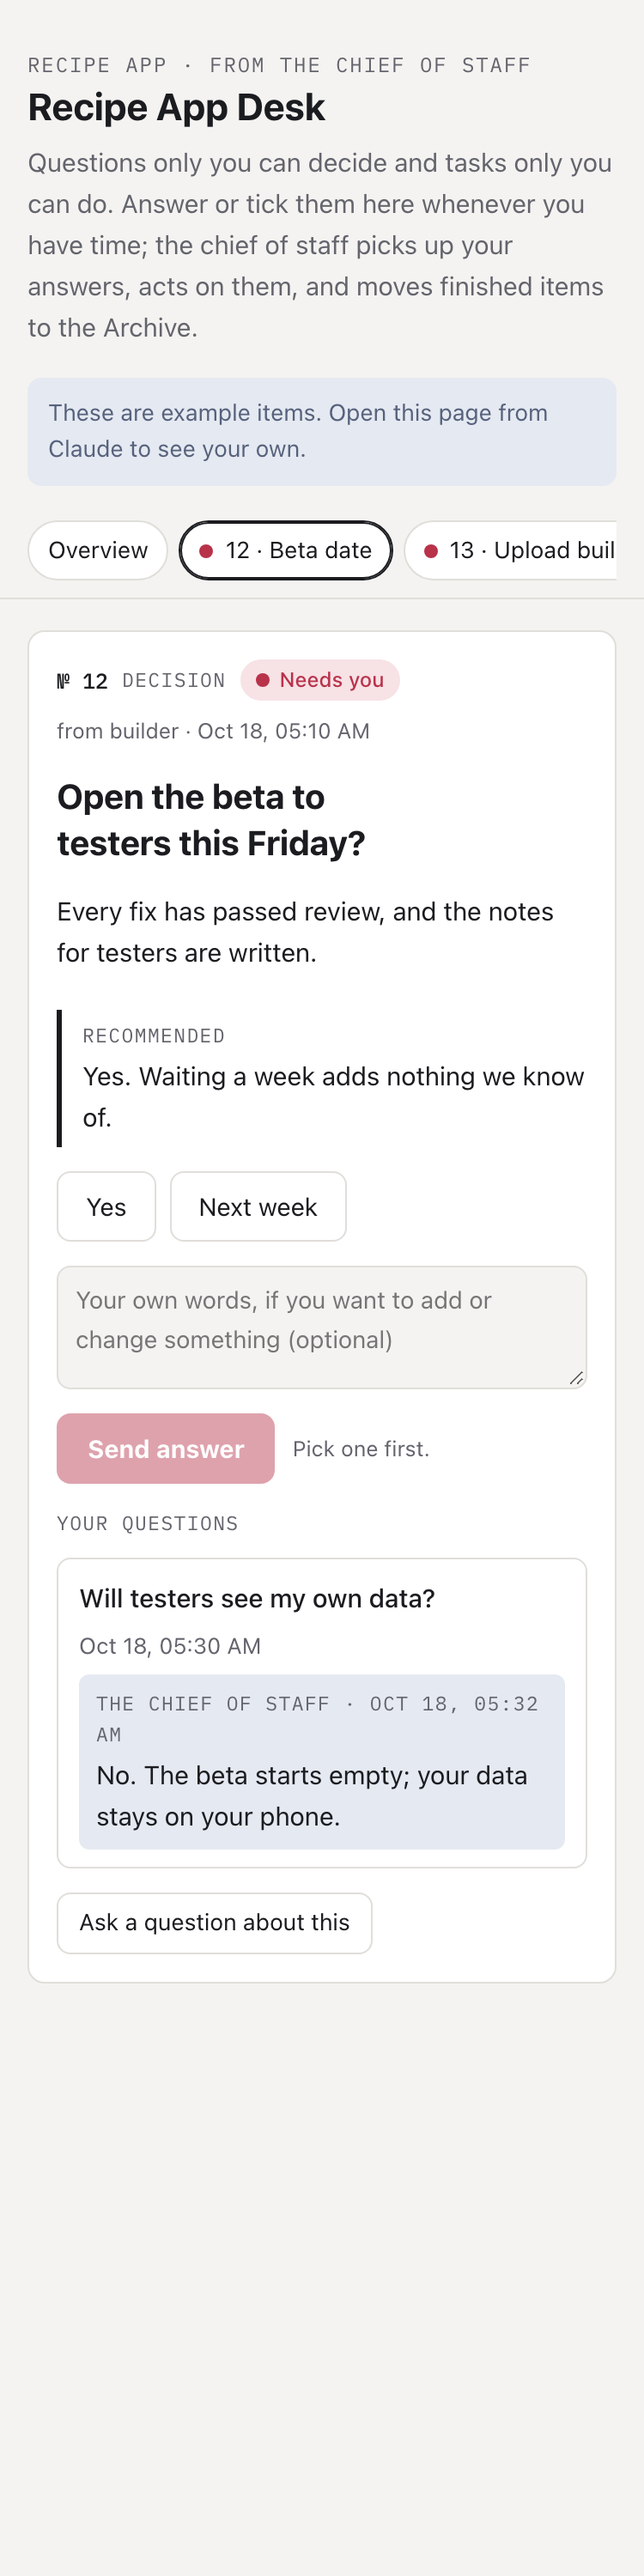
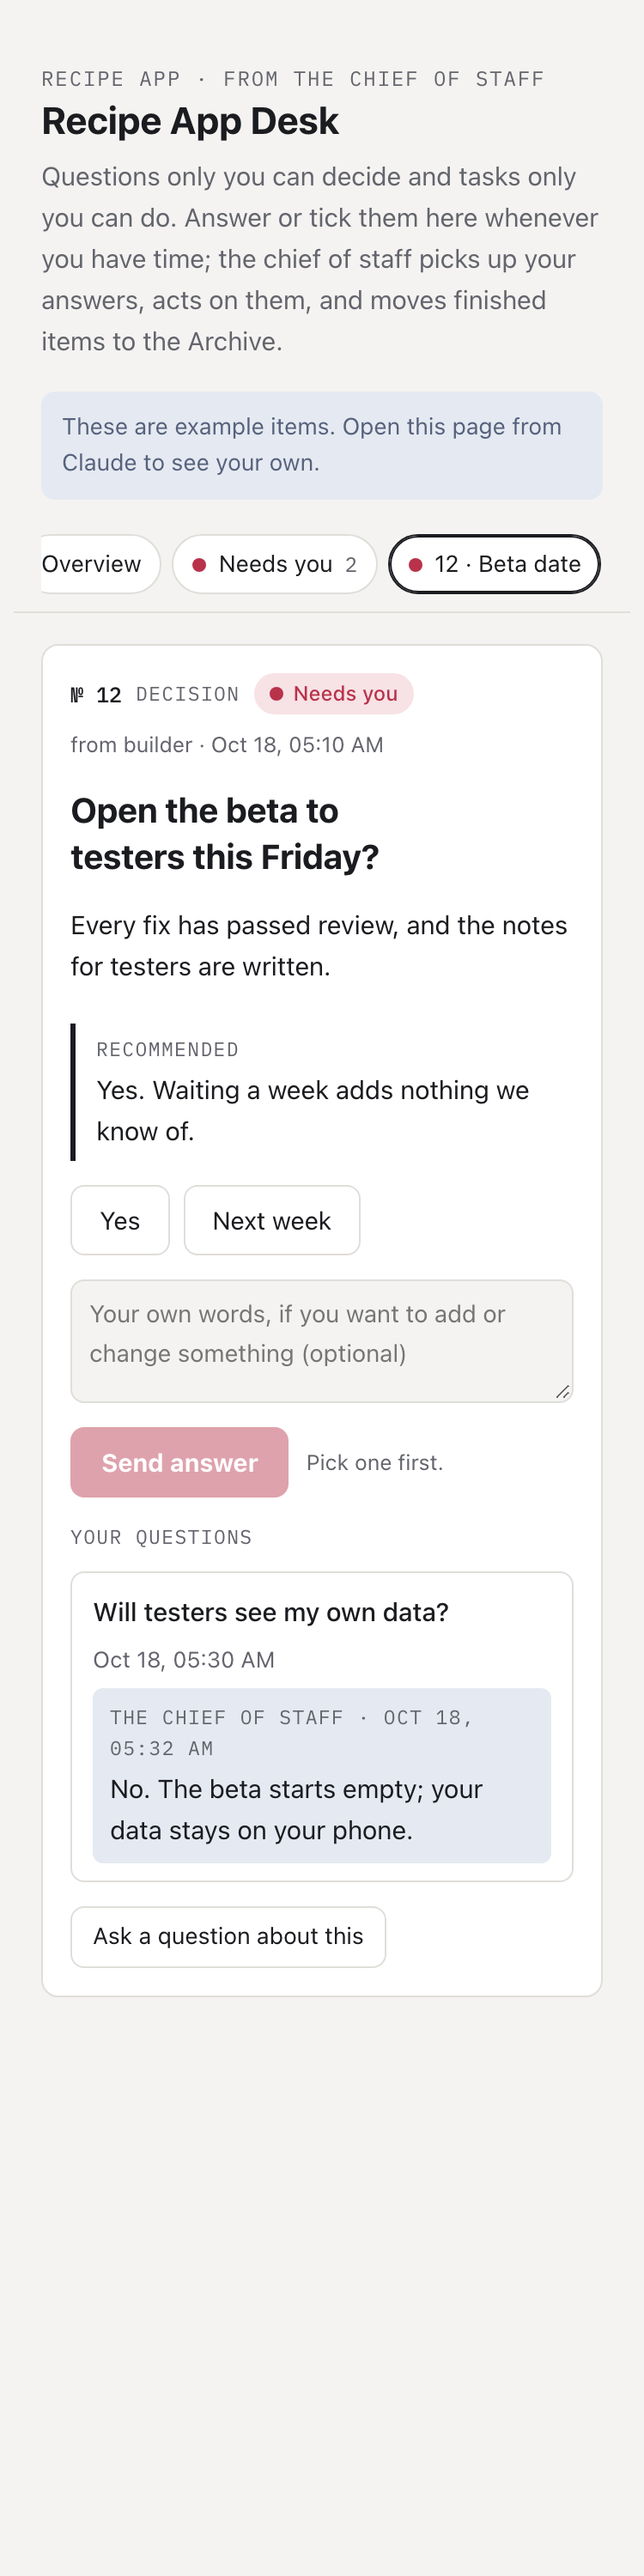
owner-desk: add Needs you and Decided tabs, and swipe between tabs
The rail now has group tabs with counts: Needs you (every open item, one
after another), Decided, Later and Archive. Items that need you keep their
own tabs; answered ones live on Decided. The overview tiles open their tab.

Swipe left or right anywhere on the page to move to the next or previous
tab, in the rail's order. Swipes that start at the screen edge, on the tab
rail, in a text box or code block, while zoomed in, or with text selected
are left alone.

Changed region(s): [[0.0307, 0.0, 0.9507, 0.775], [0.552, 0.558, 0.6747, 0.589], [0.7667, 0.0, 0.7973, 0.031]]

diff --git a/skills/owner-desk/assets/desk.html b/skills/owner-desk/assets/desk.html
@@ -4,7 +4,7 @@
 <link rel="preconnect" href="https://fonts.gstatic.com" crossorigin>
 <link rel="stylesheet" href="https://fonts.googleapis.com/css2?family=IBM+Plex+Mono:wght@400;500&display=swap">
 <style>
-/* Layout: a desk. A sticky rail of tabs (one per open item) above one open slip at a time. */
+/* Layout: a desk. A sticky rail of tabs (the groups, plus one per item that needs you) above one open slip at a time. Swipe sideways to change tabs. */
 :root{
   --bg:#F4F3F1; --surface:#FFFFFF; --ink:#1B1C20; --muted:#63646C; --line:#E0DED9;
   --accent:#B8324A; --accent-soft:#F7E2E6; --on-accent:#FFFFFF;
@@ -48,7 +48,6 @@ h1{font-size:26px;line-height:1.2;margin:0;font-weight:700;text-wrap:balance}
 .tab[aria-selected="true"]{border-color:var(--ink);box-shadow:inset 0 0 0 1px var(--ink)}
 .tab:focus-visible,button:focus-visible,textarea:focus-visible,input:focus-visible,a:focus-visible{outline:2px solid var(--accent);outline-offset:2px}
 .tab-sep{flex:0 0 1px;align-self:stretch;background:var(--line);margin:3px 4px}
-.rail-label{flex:0 0 auto;align-self:center;font-family:var(--font-mono);font-size:11px;letter-spacing:.06em;text-transform:uppercase;color:var(--muted);padding-right:2px}
 .dot{width:8px;height:8px;border-radius:50%;flex:0 0 8px;background:var(--muted)}
 .dot.needs{background:var(--accent)} .dot.wait{background:var(--wait)} .dot.ok{background:var(--ok)} .dot.later{background:var(--later)}
 .count{font-family:var(--font-mono);font-size:12px;color:var(--muted)}
@@ -105,12 +104,14 @@ ol.steps li.done label{color:var(--muted);text-decoration:line-through;text-deco
 .ov-row .t{min-width:0;overflow:hidden;text-overflow:ellipsis;white-space:nowrap}
 .qchip{font-size:11.5px;font-weight:500;padding:1px 8px;border-radius:999px;background:var(--wait-soft);color:var(--wait);white-space:nowrap}
 .tiles{display:grid;grid-template-columns:repeat(4,minmax(0,1fr));gap:8px}
-.tile{background:var(--surface);border:1px solid var(--line);border-radius:var(--r);padding:10px 12px}
+.tile{background:var(--surface);border:1px solid var(--line);border-radius:var(--r);padding:10px 12px;font:inherit;color:inherit;text-align:left;cursor:pointer;min-width:0}
 .tile .n{font-family:var(--font-mono);font-size:22px;font-weight:500;font-variant-numeric:tabular-nums}
 .tile .l{font-size:12.5px;color:var(--muted)}
 .tile.needs .n{color:var(--accent)} .tile.wait .n{color:var(--wait)}
 .calm{background:var(--ok-soft);color:var(--ok);border-radius:var(--r);padding:16px 18px;font-weight:700}
 .reach{font-size:12.5px;color:var(--muted)}
+.swipe-tip{display:none;margin-top:-8px}
+@media (hover: none) and (pointer: coarse){ .swipe-tip{display:block} }
 .divider{display:flex;align-items:center;gap:10px;color:var(--muted);font-size:12.5px;margin-top:6px}
 .divider::before,.divider::after{content:"";flex:1;height:1px;background:var(--line)}
 .divider span{flex:0 1 auto;text-align:center}
@@ -122,7 +123,10 @@ details.arch[open] summary{margin-bottom:10px}
 .note{font-size:13px;color:var(--muted)}
 .toast{position:fixed;left:50%;transform:translateX(-50%);bottom:calc(16px + env(safe-area-inset-bottom,0px));background:var(--ink);color:var(--surface);padding:9px 16px;border-radius:999px;font-size:13.5px;z-index:20;max-width:calc(100% - 32px)}
 @media (max-width:520px){ .tiles{grid-template-columns:repeat(2,minmax(0,1fr))} .slip{padding:16px} h1{font-size:22px} }
-@media (prefers-reduced-motion: no-preference){ .slip{animation:rise .18s ease-out} @keyframes rise{from{transform:translateY(4px)}to{transform:none}} }
+@media (prefers-reduced-motion: no-preference){ .slip{animation:rise .18s ease-out} @keyframes rise{from{transform:translateY(4px)}to{transform:none}}
+  main.from-right{animation:from-right .2s ease-out} main.from-left{animation:from-left .2s ease-out}
+  @keyframes from-right{from{transform:translateX(28px);opacity:.3}to{transform:none;opacity:1}}
+  @keyframes from-left{from{transform:translateX(-28px);opacity:.3}to{transform:none;opacity:1}} }
 </style>
 
 <div class="wrap">
@@ -207,27 +211,29 @@ details.arch[open] summary{margin-bottom:10px}
       const ra = a.status === "answered" ? 1 : 0, rb = b.status === "answered" ? 1 : 0;
       return ra - rb || (a.priority || 5) - (b.priority || 5) || byTime(a, b);
     });
+    const needs = active.filter(it => it.status !== "answered");
+    const decided = active.filter(it => it.status === "answered");
     const later = S.items.filter(isLater).sort(byTime);
     const archived = S.items.filter(isArchived).sort((a, b) => String(b.archived || "").localeCompare(String(a.archived || "")));
-    return { active, later, archived };
+    return { active, needs, decided, later, archived };
   }
+  const GROUP_TABS = ["overview", "needs", "decided", "later", "archive"];
+  // The group tab an item lives under, for an item that has no tab of its own.
+  const groupOf = (it) => isArchived(it) ? "archive" : it.later ? "later" : it.status === "answered" ? "decided" : "needs";
   const label = (it) => (it.num ? it.num + " · " : "") + (it.short || it.title);
   const openAsks = (it) => (it.asks || []).filter(a => !a.a).length;
 
   function renderTabs(g){
     const t = [];
     const tab = (id, text, dot, extra) => `<button class="tab" role="tab" aria-selected="${S.tab === id}" data-tab="${esc(id)}">${dot ? `<span class="dot ${dot}"></span>` : ""}<span class="t">${esc(text)}</span>${extra || ""}</button>`;
+    const count = (n) => `<span class="count">${n}</span>`;
     t.push(tab("overview", "Overview", "", ""));
-    const undecided = g.active.filter(it => it.status !== "answered");
-    const decided = g.active.filter(it => it.status === "answered");
-    undecided.forEach(it => t.push(tab(it.id, label(it), statusOf(it).cls)));
-    if (decided.length){
-      t.push(`<span class="tab-sep" aria-hidden="true"></span><span class="rail-label">Decided</span>`);
-      decided.forEach(it => t.push(tab(it.id, label(it), statusOf(it).cls)));
-    }
+    t.push(tab("needs", "Needs you", "needs", count(g.needs.length)));
+    g.needs.forEach(it => t.push(tab(it.id, label(it), statusOf(it).cls)));
     t.push(`<span class="tab-sep" aria-hidden="true"></span>`);
-    t.push(tab("later", "Later", "later", `<span class="count">${g.later.length}</span>`));
-    t.push(tab("archive", "Archive", "ok", `<span class="count">${g.archived.length}</span>`));
+    t.push(tab("decided", "Decided", "wait", count(g.decided.length)));
+    t.push(tab("later", "Later", "later", count(g.later.length)));
+    t.push(tab("archive", "Archive", "ok", count(g.archived.length)));
     $("#tabs").innerHTML = t.join("");
     const sel = $("#tabs .tab[aria-selected='true']");
     if (sel && sel.scrollIntoView) sel.scrollIntoView({ block: "nearest", inline: "nearest" });
@@ -310,14 +316,15 @@ details.arch[open] summary{margin-bottom:10px}
     </article>`;
   }
   function overview(g){
-    const und = g.active.filter(i => i.status !== "answered"), dec = g.active.filter(i => i.status === "answered");
-    const tiles = `<div class="tiles"><div class="tile needs"><div class="n">${und.length}</div><div class="l">Need you</div></div><div class="tile wait"><div class="n">${dec.length}</div><div class="l">With ${esc(AGENT)}</div></div><div class="tile"><div class="n">${g.later.length}</div><div class="l">For later</div></div><div class="tile"><div class="n">${g.archived.length}</div><div class="l">Archived</div></div></div>`;
+    const und = g.needs, dec = g.decided;
+    const tile = (id, cls, n, text) => `<button class="tile ${cls}" data-tab="${id}"><div class="n">${n}</div><div class="l">${text}</div></button>`;
+    const tiles = `<div class="tiles">${tile("needs", "needs", und.length, "Need you")}${tile("decided", "wait", dec.length, "With " + esc(AGENT))}${tile("later", "", g.later.length, "For later")}${tile("archive", "", g.archived.length, "Archived")}</div>`;
     const row = (it) => { const st = statusOf(it); const q = openAsks(it); return `<button class="ov-row" data-tab="${esc(it.id)}"><span class="dot ${st.cls}"></span><span class="t">${it.num ? `<span class="num">№ ${esc(it.num)}</span> · ` : ""}${esc(it.title)}</span>${q ? `<span class="qchip">question asked</span>` : `<span class="pill ${st.cls}">${esc(st.short)}</span>`}</button>`; };
     const list = (und.length ? `<div class="slip overview"><span class="sec-label">Needs you</span><div class="list">${und.map(row).join("")}</div></div>` : `<div class="calm">Nothing needs you.</div>`)
       + (dec.length ? `<div class="divider"><span>Decided · ${esc(AGENT)} is acting on these</span></div><div class="slip overview decided"><div class="list">${dec.map(row).join("")}</div></div>` : "");
     const asked = g.later.filter(i => openAsks(i));
     const askedList = asked.length ? `<div class="slip overview"><span class="sec-label">Questions you asked on later items</span><div class="list">${asked.map(row).join("")}</div></div>` : "";
-    return tiles + list + askedList + `<p class="reach">${esc(reachHint())}</p>`;
+    return tiles + list + askedList + `<p class="reach">${esc(reachHint())}</p><p class="reach swipe-tip">Swipe left or right to move between tabs.</p>`;
   }
   function render(){
     const main = $("#main");
@@ -329,10 +336,20 @@ details.arch[open] summary{margin-bottom:10px}
     if (!S.loaded){ $("#tabs").innerHTML = ""; return; }
     const g = groups();
     const ids = new Set(S.items.map(i => i.id));
-    if (!S.tab || (!["overview", "later", "archive"].includes(S.tab) && !ids.has(S.tab))) S.tab = "overview";
+    if (!S.tab || (!GROUP_TABS.includes(S.tab) && !ids.has(S.tab))) S.tab = "overview";
     renderTabs(g);
     let html = "";
     if (S.tab === "overview") html = overview(g);
+    else if (S.tab === "needs"){
+      html = g.needs.length
+        ? `<p class="note" style="margin:0">Everything waiting for you, one after another. Answer in any order; each one moves to Decided when you do.</p>` + g.needs.map(slip).join("")
+        : `<div class="calm">Nothing needs you.</div>`;
+    }
+    else if (S.tab === "decided"){
+      html = g.decided.length
+        ? `<p class="note" style="margin:0">You've answered these. ${esc(Agent)} acts on them and moves each to the Archive when it's done.</p>` + g.decided.map(slip).join("")
+        : `<div class="calm">Nothing waiting on ${esc(AGENT)}.</div>`;
+    }
     else if (S.tab === "later"){
       const und = g.later.filter(i => i.status !== "answered"), dec = g.later.filter(i => i.status === "answered");
       html = g.later.length
@@ -354,6 +371,42 @@ details.arch[open] summary{margin-bottom:10px}
     c.canSendToClaude().then(v => { if (v !== S.canClaude){ S.canClaude = v; render(); } }, () => { S.canClaude = "off"; });
   }
   function setTab(id){ S.tab = id; store("desk.tab", id); try { history.replaceState(null, "", "#" + id); } catch(e){} refreshReach(); render(); window.scrollTo({ top: 0 }); }
+
+  // Swipe left for the next tab and right for the previous one, in the rail's order (handy on an iPad or phone).
+  function stepTab(dir){
+    const ids = [...document.querySelectorAll("#tabs .tab")].map(b => b.dataset.tab);
+    let i = ids.indexOf(S.tab);
+    if (i < 0){ const it = find(S.tab); i = ids.indexOf(it ? groupOf(it) : "overview"); }
+    const next = ids[i + dir];
+    if (!next) return;
+    setTab(next);
+    const main = $("#main");
+    main.classList.remove("from-right", "from-left");
+    void main.offsetWidth;
+    main.classList.add(dir > 0 ? "from-right" : "from-left");
+  }
+  $("#main").addEventListener("animationend", (ev) => { if (ev.target === ev.currentTarget) ev.currentTarget.classList.remove("from-right", "from-left"); });
+  let swipe = null;
+  document.addEventListener("touchstart", (ev) => {
+    swipe = null;
+    if (ev.touches.length !== 1 || S.problem || !S.loaded) return;
+    if (window.visualViewport && window.visualViewport.scale > 1.01) return; // zoomed in: a sideways drag pans the page
+    const p = ev.touches[0], edge = 24;
+    // Leave the screen edges to the system's back gesture, and leave alone what scrolls sideways or takes typing.
+    if (p.clientX < edge || p.clientX > window.innerWidth - edge) return;
+    if (ev.target.closest && ev.target.closest(".rail, pre, textarea, input, select, [contenteditable]")) return;
+    swipe = { x: p.clientX, y: p.clientY, at: Date.now() };
+  }, { passive: true });
+  document.addEventListener("touchend", (ev) => {
+    const s = swipe; swipe = null;
+    if (!s || ev.touches.length) return;
+    const p = ev.changedTouches[0], dx = p.clientX - s.x, dy = p.clientY - s.y;
+    if (Math.abs(dx) < 60 || Math.abs(dx) < 1.8 * Math.abs(dy) || Date.now() - s.at > 800) return;
+    const sel = window.getSelection && window.getSelection();
+    if (sel && !sel.isCollapsed) return;
+    stepTab(dx < 0 ? 1 : -1);
+  }, { passive: true });
+  document.addEventListener("touchcancel", () => { swipe = null; }, { passive: true });
 
   // Tell the agent at once, as a comment sent to Claude, in the item's own thread.
   // Call it straight from the click: the platform only sends from the viewer's own recent gesture.

diff --git a/docs/index.html b/docs/index.html
@@ -331,13 +331,15 @@ section{display:flex;flex-direction:column;gap:22px}
           <li>One tab per item, with a recommended answer and buttons.</li>
           <li>Tasks come with steps to tick, text to copy, links and files.</li>
           <li>Ask a question on any item, and the answer shows on the same tab.</li>
-          <li>Decided, Later and Archive keep what still needs you apart from everything else.</li>
+          <li>Needs you, Decided, Later and Archive tabs keep what still needs you apart from everything else. Swipe sideways to move between them.</li>
         </ul>
         <div class="mock" aria-label="Example desk item">
           <div class="rail">
             <span class="tab">Overview</span>
+            <span class="tab"><span class="dot needs" aria-hidden="true"></span>Needs you 2</span>
             <span class="tab on"><span class="dot needs" aria-hidden="true"></span>12 · Beta date</span>
             <span class="tab"><span class="dot needs" aria-hidden="true"></span>13 · Upload build</span>
+            <span class="tab"><span class="dot wait" aria-hidden="true"></span>Decided 1</span>
             <span class="tab"><span class="dot later" aria-hidden="true"></span>Later 2</span>
             <span class="tab"><span class="dot ok" aria-hidden="true"></span>Archive 9</span>
           </div>

diff --git a/skills/owner-desk/README.md b/skills/owner-desk/README.md
@@ -19,20 +19,24 @@ not when you have time.
 
 ## How the desk works
 
-- **One tab per item.** A *decision* has a recommended answer and buttons.
+- **A Needs you tab, and one tab per item.** *Needs you* shows everything
+  waiting for you, one after another; each item also has its own tab. A
+  *decision* has a recommended answer and buttons.
   A *task* (an upload, a sign-in) has steps to tick, text to copy, and the
   guide attached.
 - **You answer whenever you like.** Your answer is saved and also sent to
   the agent as a short comment, which wakes it straight away. The page tells
   you which applies: "…is told the moment you answer", or "Saved here; …
   reads it at its next check".
-- **Answered items move apart.** They sit under *Decided* while the agent
-  acts on them, so what still needs you stands out.
+- **Answered items move apart.** They go to the *Decided* tab while the
+  agent acts on them, so what still needs you stands out.
 - **The agent archives what's done,** with one line on what happened. The
   Archive is the record of every decision.
 - **Later** holds questions that can wait.
 - **Ask about any item** ("what happens if I say no?"), and the answer
   shows on the same tab.
+- **Swipe left or right** to move between tabs, handy on an iPad or a
+  phone.
 
 <p>
   <img src="screenshots/decision-phone-light.png" alt="A decision on a phone: the question, the recommended answer, Yes and Next week buttons, and an earlier question answered" width="300">

diff --git a/skills/owner-desk/SKILL.md b/skills/owner-desk/SKILL.md
@@ -5,7 +5,7 @@ description: Give the human owner a live board, a Claude artifact with its own s
 
 # Owner desk
 
-Questions in chat get buried, and the owner has to answer when the agent asks, not when they have time. The desk moves them out of the chat into a board: one tab per item, open items apart from answered ones, a Later tab for what can wait, and an Archive for what's done. The owner answers there; you read the answers, act, and archive.
+Questions in chat get buried, and the owner has to answer when the agent asks, not when they have time. The desk moves them out of the chat into a board: a Needs you tab with every open item (each also gets a tab of its own), a Decided tab for answered ones, a Later tab for what can wait, and an Archive for what's done. On a phone or iPad, the owner swipes sideways to move between tabs. The owner answers there; you read the answers, act, and archive.
 
 ## What this needs
 
